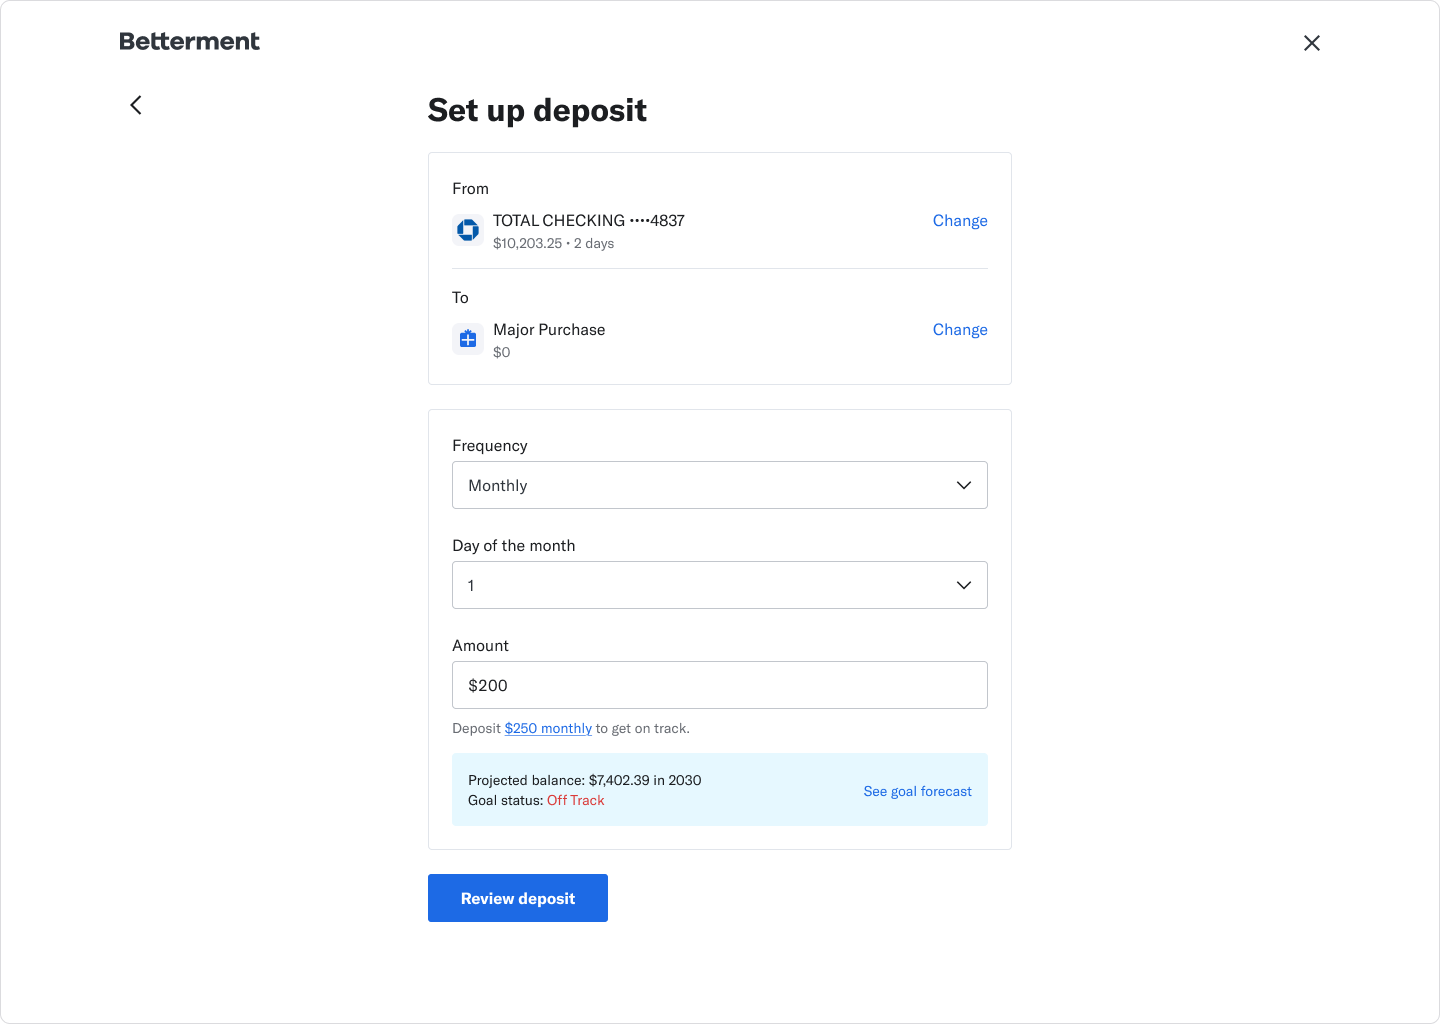
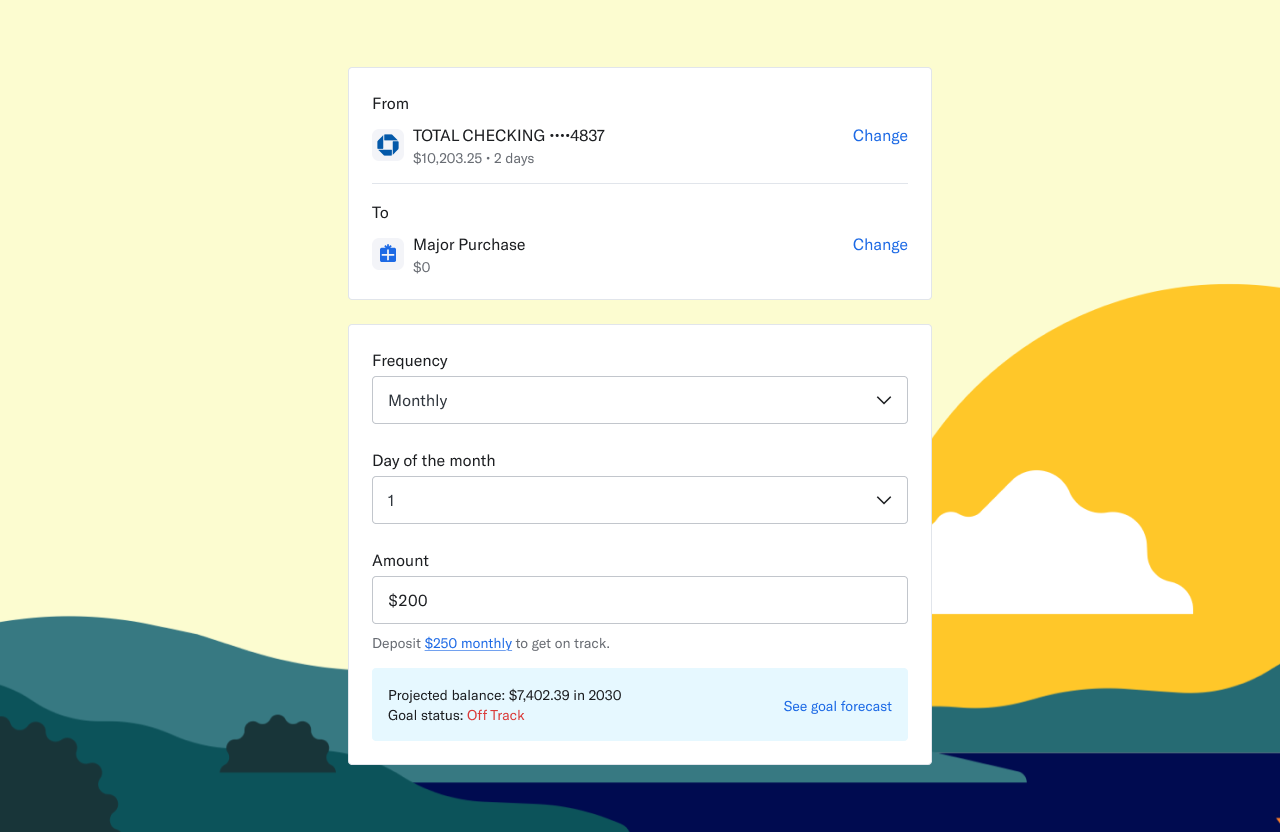
cover images

diff --git a/projects/plaid.html b/projects/plaid.html
@@ -18,19 +18,14 @@
     </section>
 
     <section class="container">
-      <h2>Plaid Migration</h2>
-      <p class="caption">
-        Betterment, 2021
-      </p>
-      <p>
-        Betterment's bank aggregator, Quovo, was acquired by Plaid so, first and foremost, we had to make the great migration to Plaid. 
-        This transition gave us a great opportunity to visually update the bank connecting experience, clarify the process and benefits, and become more transparent.
-      </p>
-      <video autoplay muted loop>
-        <source src="../assets/plaid/final-plaid.mp4" type="video/mp4">
-      Your browser does not support the video tag.
-        </video>
-        <p class="img-caption">Sneak peek of the Plaid experience.</p>
+        <img src="../assets/plaid/plaid-cover.png" alt="">
+        <span class="spacer"></span>
+        <h2>Plaid Migration</h2>
+        <p class="caption">Betterment, 2021</p>
+        <p>
+            Betterment's bank aggregator, Quovo, was acquired by Plaid so, first and foremost, we had to make the great migration to Plaid. 
+            This transition gave us a great opportunity to visually update the bank connecting experience, clarify the process and benefits, and become more transparent.
+        </p>
     </section>
 
     <section class="container">

diff --git a/projects/chess-club.html b/projects/chess-club.html
@@ -19,6 +19,8 @@
   </section>
 
   <section class="container">
+    <img src="../assets/chess/chess-cover.png">
+    <span class="spacer"></span>
     <h2>Chess Club</h2>
     <p class="caption">
       Primer, 2022
@@ -29,11 +31,6 @@
       We started exploring 3rd-party led clubs and found Chess4Life. 
       We partnered with them to create a Chess Club on Primer.
     </p>
-    <video autoplay muted loop>
-      <source src="../assets/chess/full.mp4" type="video/mp4">
-    Your browser does not support the video tag.
-    </video>
-    <p class="img-caption">Quick overview of everything Chess club!</p>
   </section>
 
   <section class="container">
@@ -191,7 +188,7 @@
       I also unlocked a new skill: designing 3D chess pieces on Illustrator.
       I felt so powerful?
     </p>
-    <img src="../assets/chess/chess-cover.png" alt="A 3D illustration of a queen chess piece.">
+    <img src="../assets/chess/chess-piece.png" alt="A 3D illustration of a queen chess piece.">
     <p class="img-caption">Chess club's cover image and the queen I created.</p>
   </section>
 

diff --git a/index.html b/index.html
@@ -48,7 +48,7 @@
       </div>
       <div>
         <a href="projects/chess-club">
-          <img src="assets/chess-cover.png" alt="A 3D illustration of a queen chess piece.">
+          <img src="assets/chess/chess-cover.png" alt="">
           <h2>Chess Club</h2>
         </a>
         <span class="sub-copy">
@@ -57,7 +57,7 @@
       </div>
       <div>
         <a href="projects/deposit-advice">
-          <img src="assets/deposit-cover.png" alt="A screenshot of a deposit screen.">
+          <img src="assets/advice/advice-cover.png" alt="">
           <h2>Deposit Advice</h2>
         </a>
         <span class="sub-copy">
@@ -66,7 +66,7 @@
       </div>
       <div>
         <a href="projects/plaid">
-          <img src="assets/plaid-cover.png" alt="A screenshot explaining how to connect your bank account.">
+          <img src="assets/plaid/plaid-cover.png" alt="">
           <h2>Plaid Migration</h2>
         </a>
         <span class="sub-copy">

diff --git a/projects/goal-setting.html b/projects/goal-setting.html
@@ -23,6 +23,8 @@
   </section>
 
     <section class="container">
+      <img src="../assets/goals-cover.png" alt="A screen with text that congratulates a student for finishing their goal setting.">
+      <span class="spacer"></span>
       <h2>Goal Setting</h2>
       <p class="caption">
         Primer, 2023
@@ -32,7 +34,6 @@
         To accompany that objective, we created a goal setting experience for students to find their own motivation and vision for their academics.
         This project allows all 250 students at Primer to create their own personal learning experience for the year!
       </p>
-        <img src="../assets/goals-cover.png" alt="A screen with text that congratulates a student for finishing their goal setting.">
     </section>
 
     <section class="container page-links">

diff --git a/projects/deposit-advice.html b/projects/deposit-advice.html
@@ -19,6 +19,8 @@
     </section>
 
     <section class="container">
+      <img src="../assets/advice/advice-cover.png" alt="">
+      <span class="spacer"></span>
         <h2>Deposit advice</h2>
         <p class="caption">
             Betterment, 2021
@@ -28,8 +30,6 @@
             With that information plus our portfolio projections, we’re able to suggest a deposit amount to our customers to reach their goals.
             Essentially, we're able to give some deposit advice.
         </p>
-        <img src="../assets/advice/advice-cover.png" alt=".">
-        <p class="img-caption">A sneak peek of deposit advice.</p>
     </section>
 
     <section class="container">
